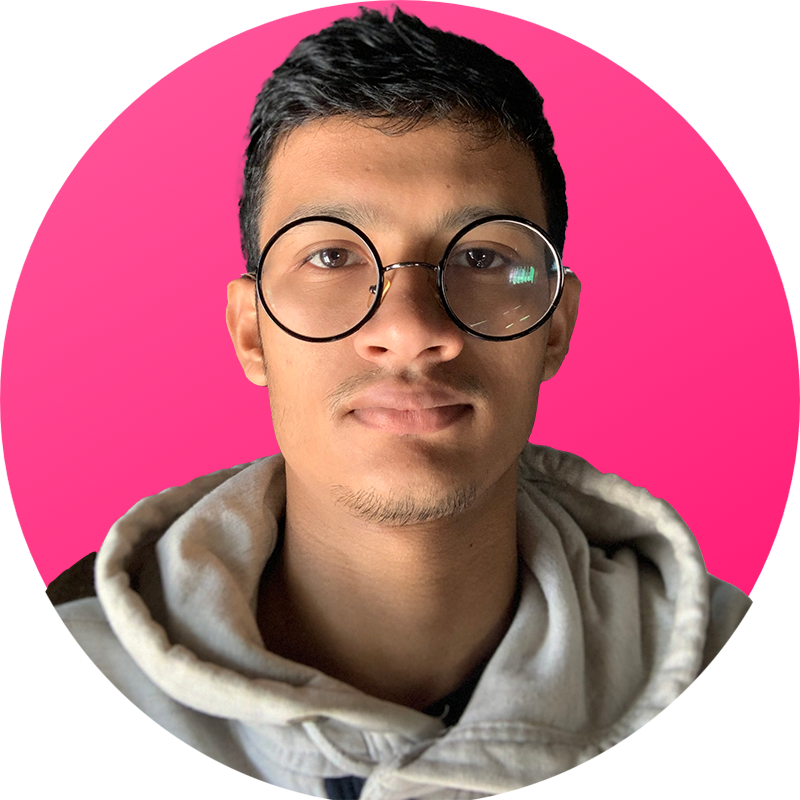
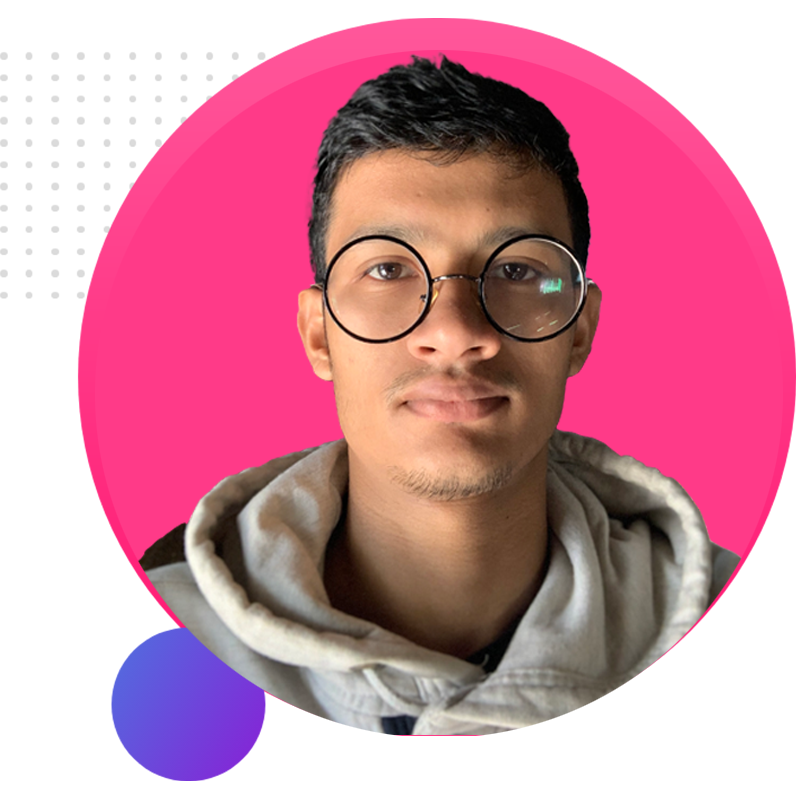
finalizing project

diff --git a/style.css b/style.css
@@ -65,8 +65,8 @@ p span.highlight-span {
   transition: 500ms;
 }
 section div.half-width img {
-  width: 90%;
-  margin-left: 7vw;
+  width: 100%;
+  /* margin-left: 7vw; */
 }
 section.top-section {
   background-image: url("images/top-banner.png");
